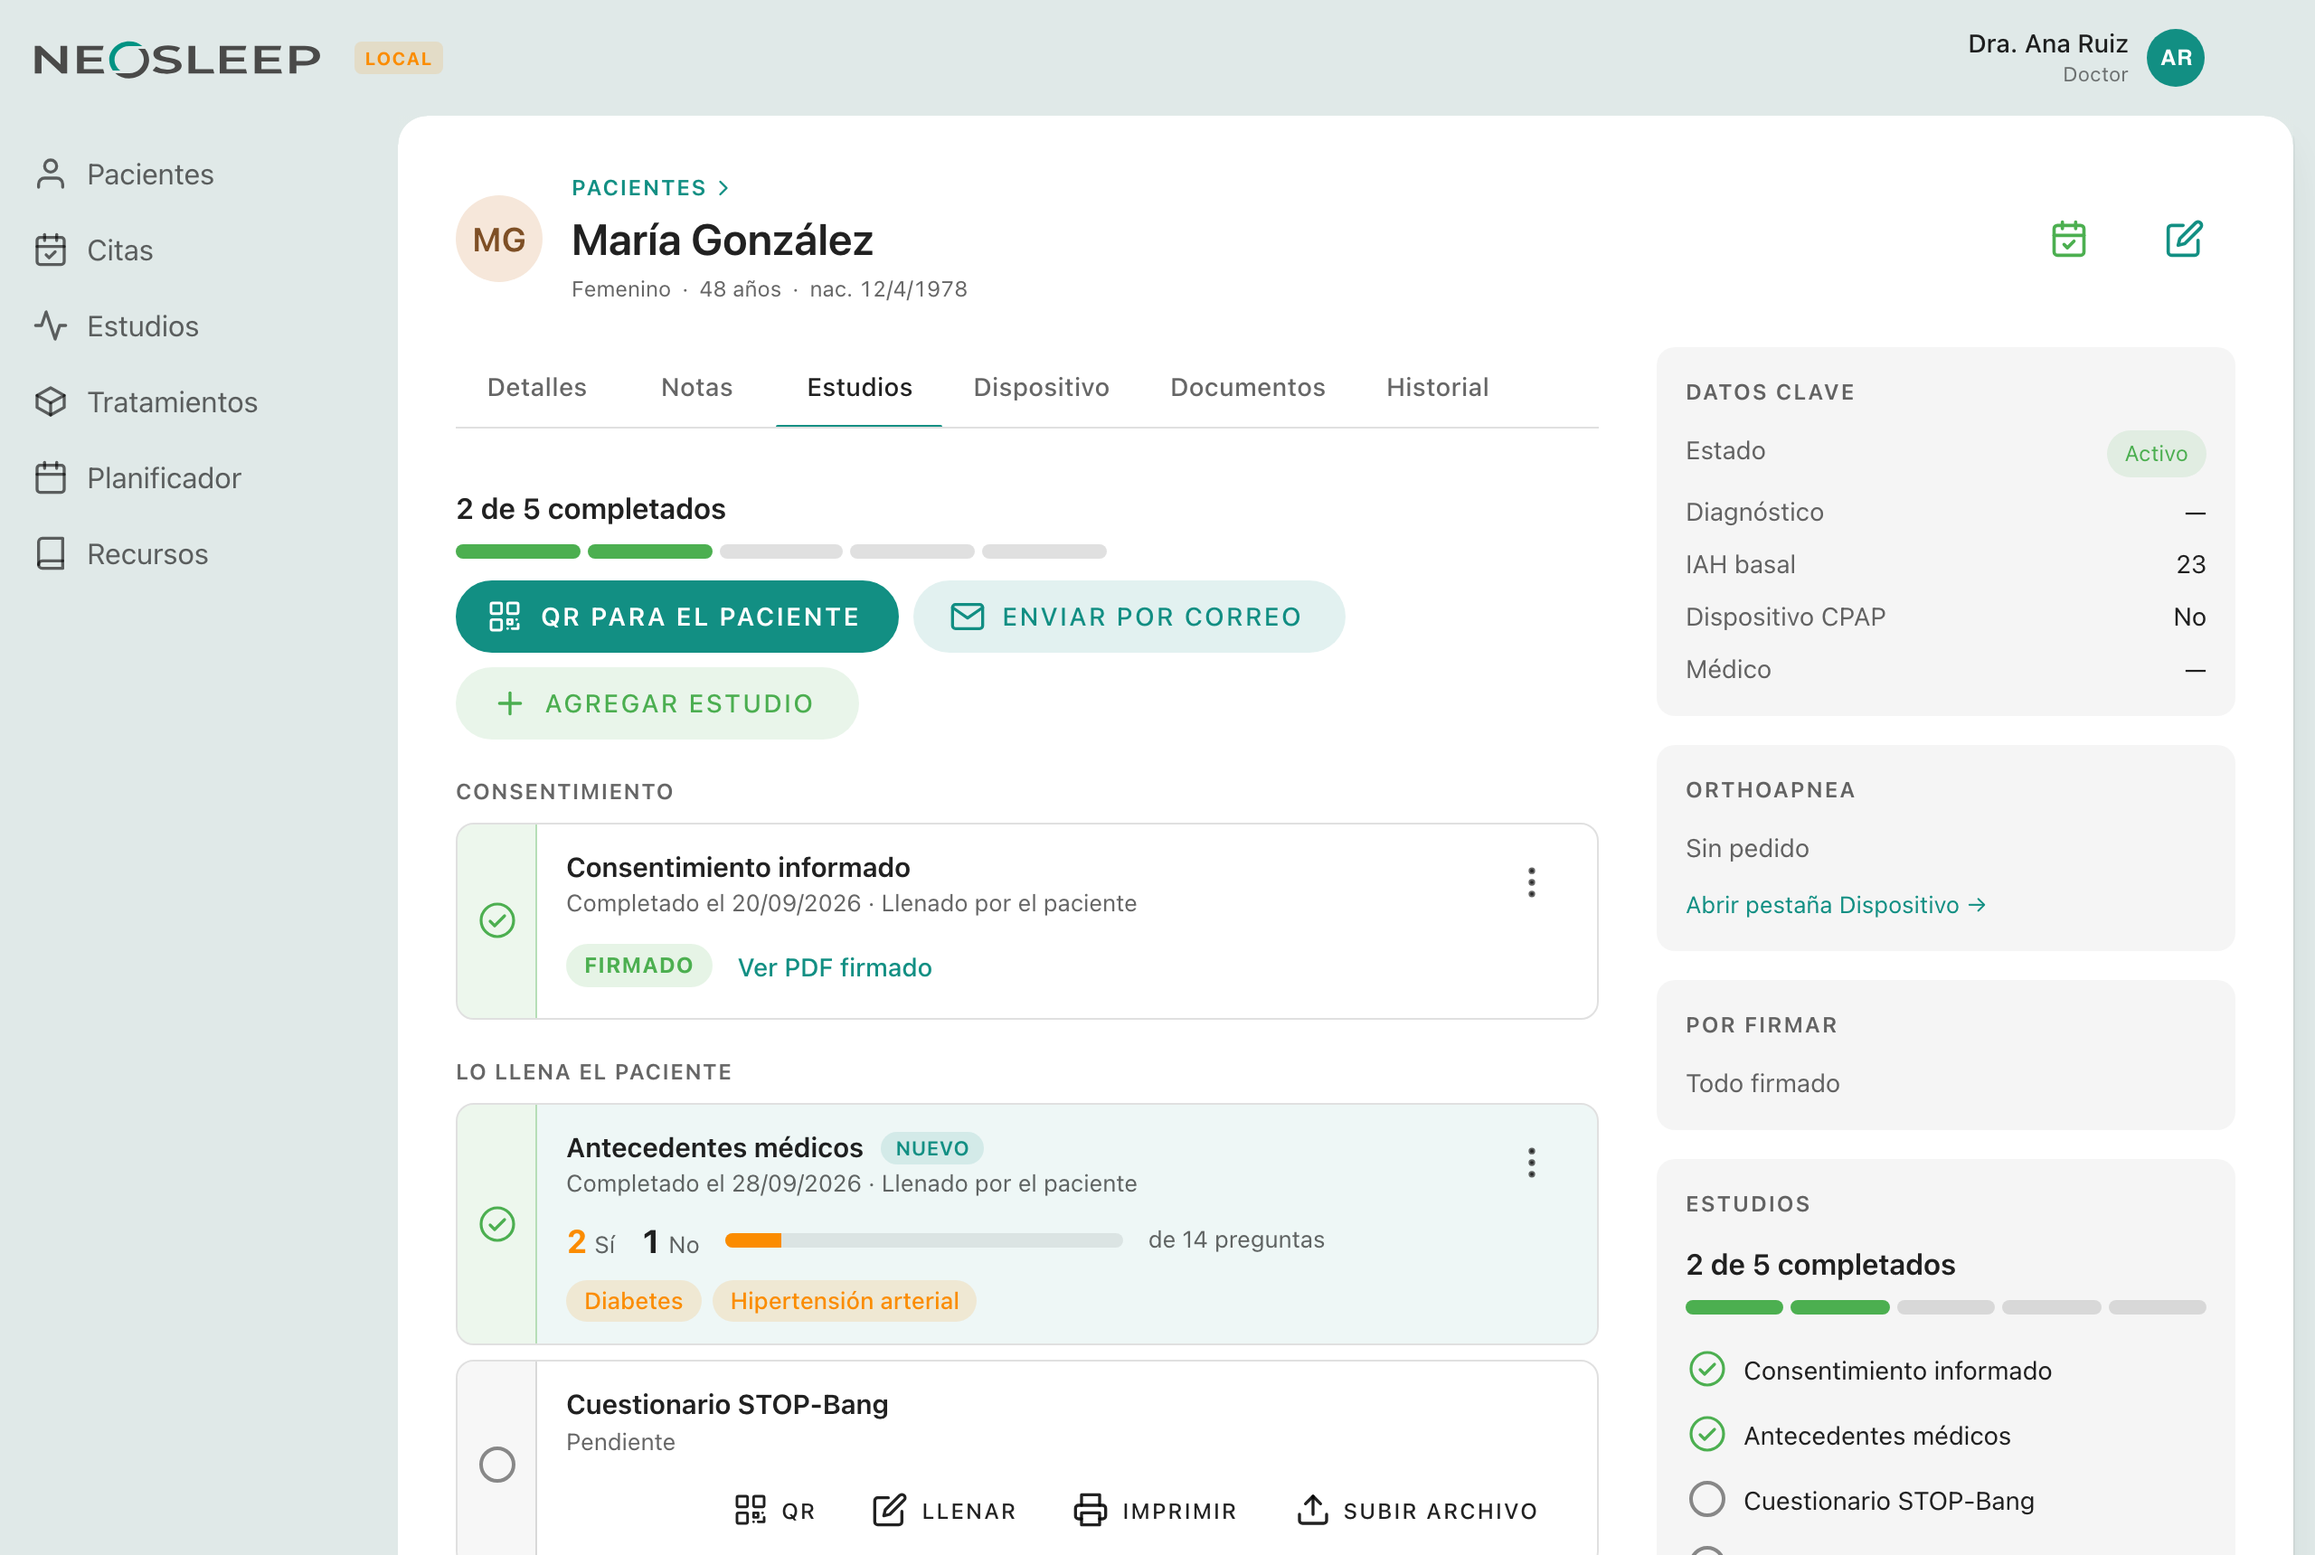
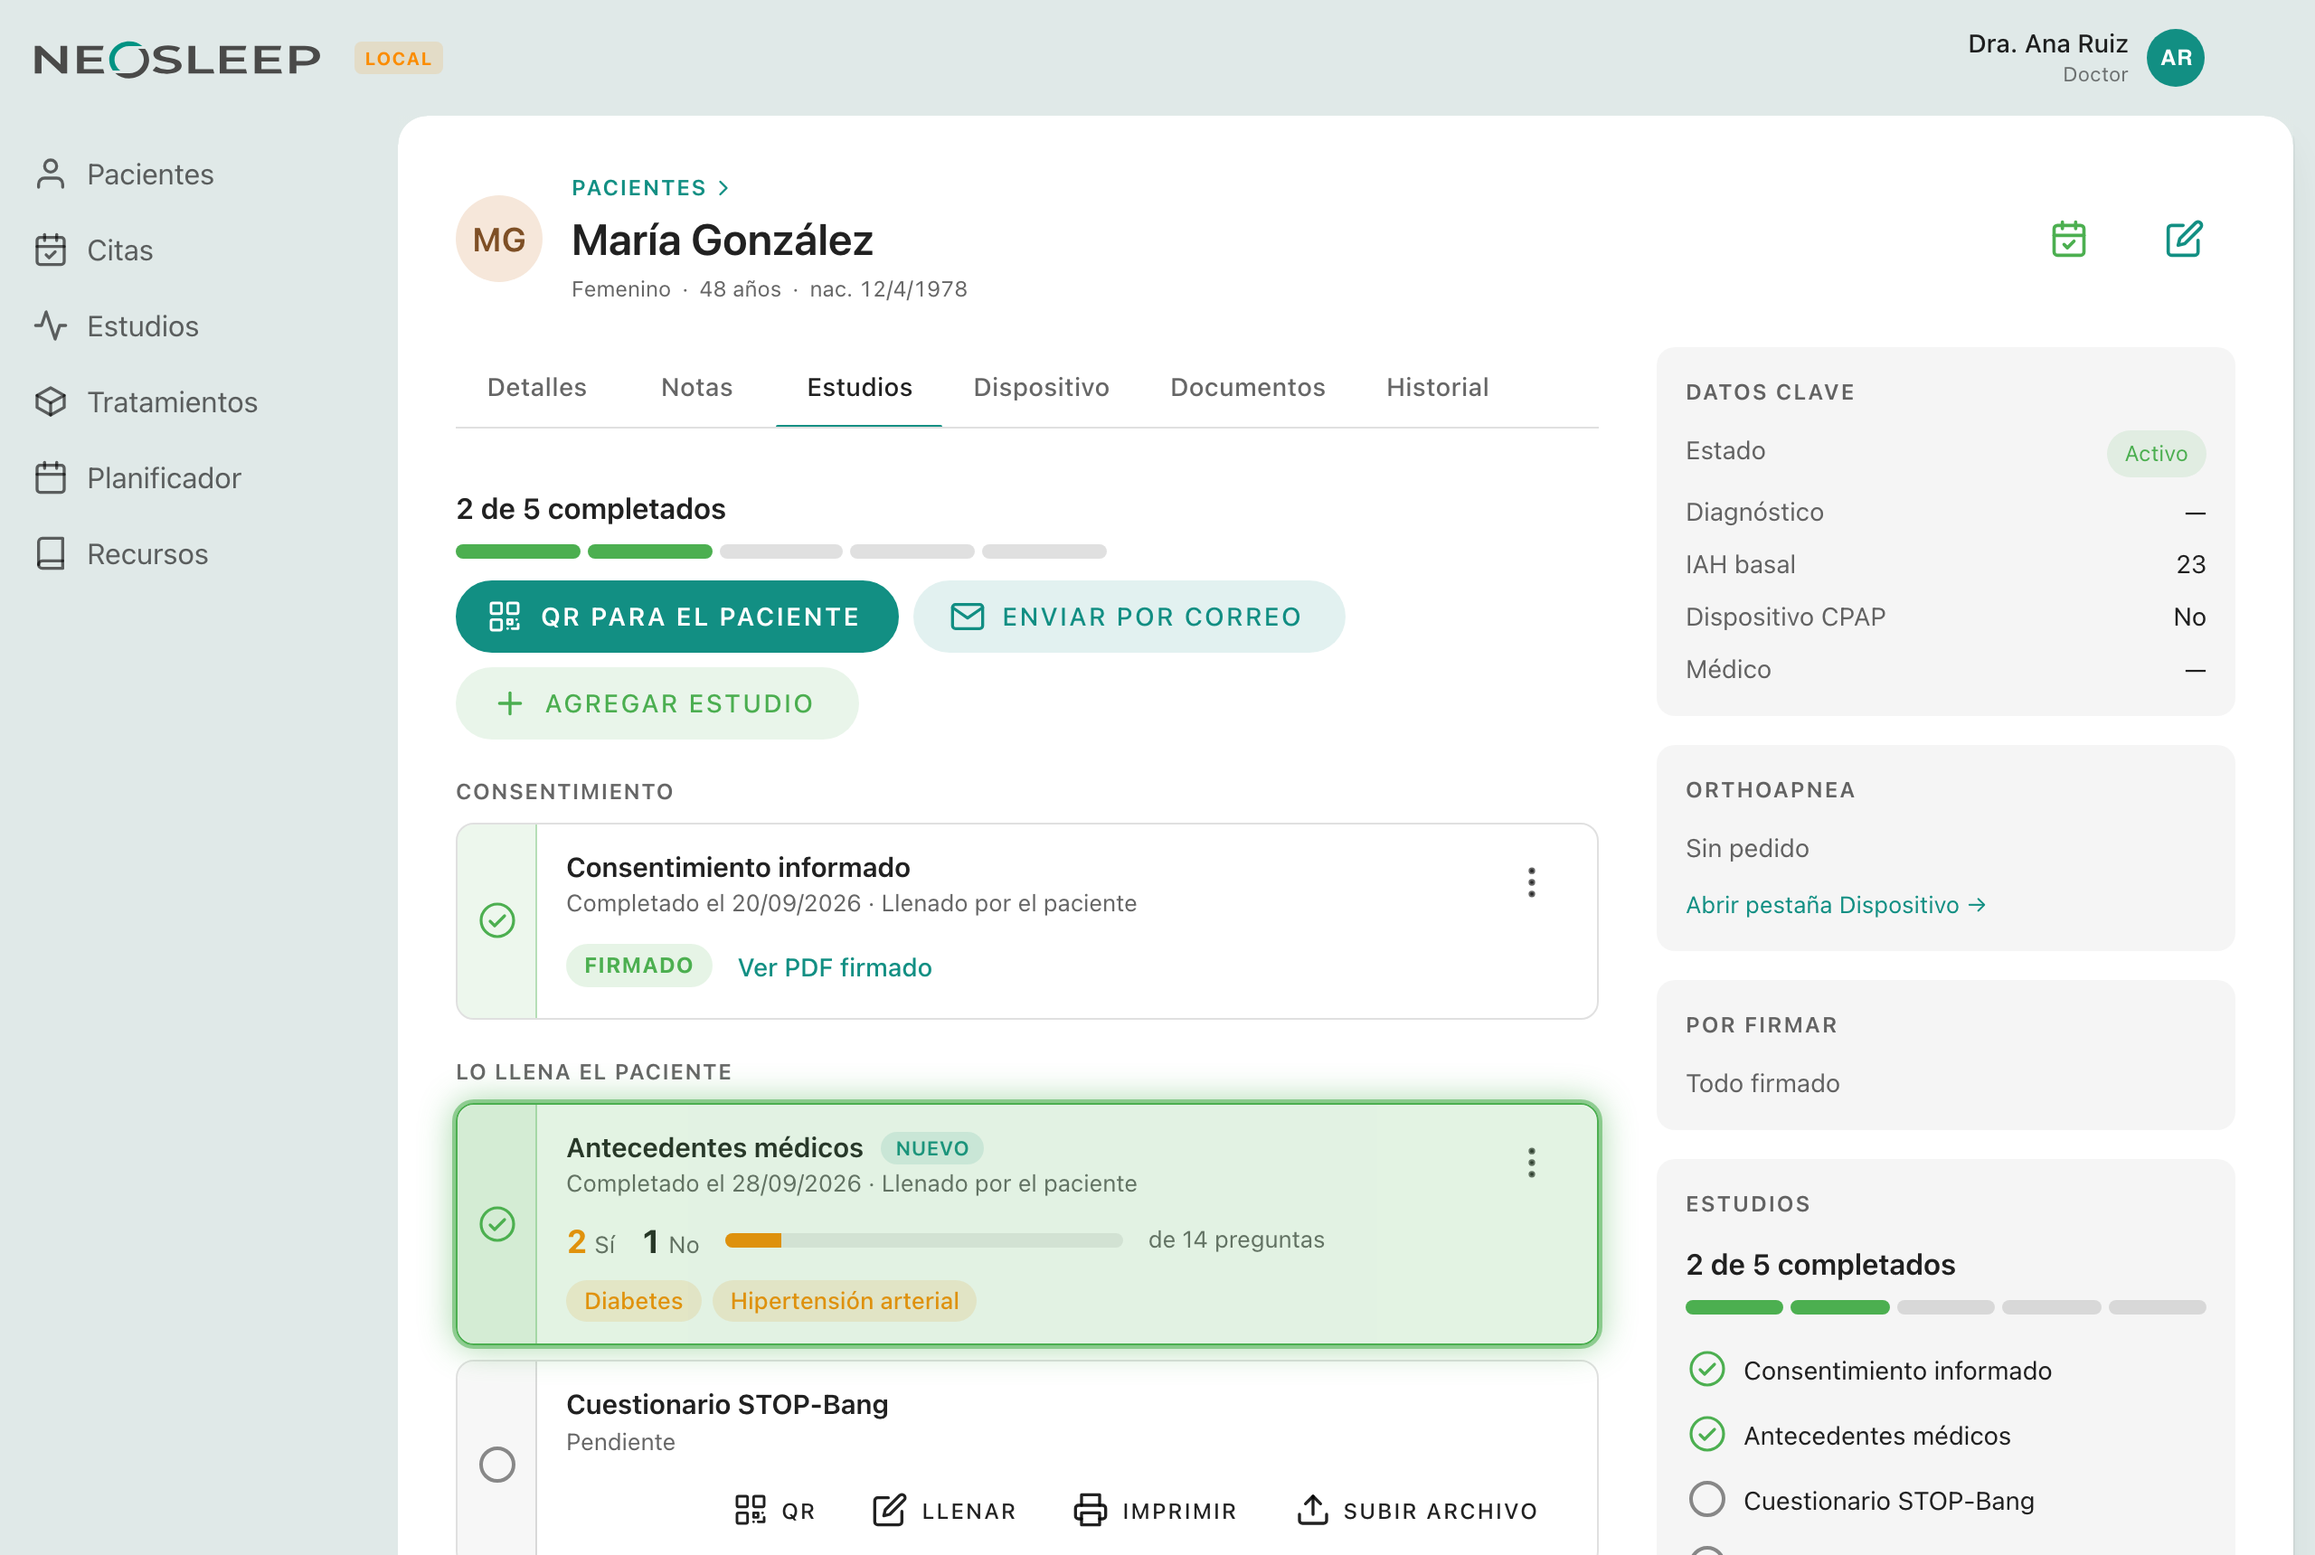
feat(estudios): arriving result lights up the whole tile green (NEO-173)
Łukasz: the tint only covered the text area and was barely visible. Now
the whole tile, rail included, glows green with a halo, holds ~1.5 s and
fades by 3.2 s; reduced motion gets a static outline instead.

Changed region(s): [[0.1875, 0.6779, 0.6875, 0.8936], [0.6875, 0.7087, 0.7188, 0.8628], [0.3125, 0.7703, 0.3438, 0.8012]]

diff --git a/apps/pwa/src/components/patient/PatientStudiesPanel.vue b/apps/pwa/src/components/patient/PatientStudiesPanel.vue
@@ -591,7 +591,7 @@ const arrivedKeys = reactive(new Set<string>());
 let knownEntryIds: Set<string> | null = null;
 function flashArrived(key: string) {
   arrivedKeys.add(key);
-  setTimeout(() => arrivedKeys.delete(key), 2400);
+  setTimeout(() => arrivedKeys.delete(key), 3200); // = the CSS glow's length
 }
 watch(checklist, (value) => {
   if (!value) return;
@@ -907,22 +907,51 @@ watch(() => props.focusItem, (key) => highlightItem(key));
 .studies__item--focus {
   box-shadow: 0 0 0 3px rgba(var(--v-theme-primary), 0.45);
 }
-/* NEO-173: something just arrived in this row — a soft tint that fades out. */
-.studies__item--arrived .studies__item-content {
-  animation: studies-arrived 2.4s ease-out;
+/*
+ * NEO-173: something just arrived in this row — the whole tile (rail
+ * included) lights up green with a halo, holds, then fades out. The tint is
+ * an overlay so it covers the rail's own background too.
+ */
+.studies__item--arrived {
+  position: relative;
+  border-color: rgb(var(--v-theme-success));
+  animation: studies-arrived-halo 3.2s ease-out;
 }
-@keyframes studies-arrived {
-  from {
-    background: rgba(var(--v-theme-primary), 0.14);
+.studies__item--arrived::after {
+  content: "";
+  position: absolute;
+  inset: 0;
+  border-radius: inherit;
+  pointer-events: none;
+  background: rgb(var(--v-theme-success));
+  animation: studies-arrived-tint 3.2s ease-out forwards;
+}
+@keyframes studies-arrived-halo {
+  0%,
+  45% {
+    box-shadow: 0 0 0 2px rgba(var(--v-theme-success), 0.55), 0 0 18px 2px rgba(var(--v-theme-success), 0.45);
   }
-  to {
-    background: transparent;
+  100% {
+    box-shadow: 0 0 0 0 rgba(var(--v-theme-success), 0), 0 0 0 0 rgba(var(--v-theme-success), 0);
+  }
+}
+@keyframes studies-arrived-tint {
+  0%,
+  45% {
+    opacity: 0.16;
+  }
+  100% {
+    opacity: 0;
   }
 }
 @media (prefers-reduced-motion: reduce) {
-  .studies__item--arrived .studies__item-content {
+  .studies__item--arrived {
     animation: none;
-    box-shadow: inset 0 0 0 2px rgba(var(--v-theme-primary), 0.35);
+    box-shadow: 0 0 0 2px rgba(var(--v-theme-success), 0.55);
+  }
+  .studies__item--arrived::after {
+    animation: none;
+    opacity: 0.12;
   }
 }
 /* NEO-173: "Nuevo" — added by someone else, not yet opened by me. */
